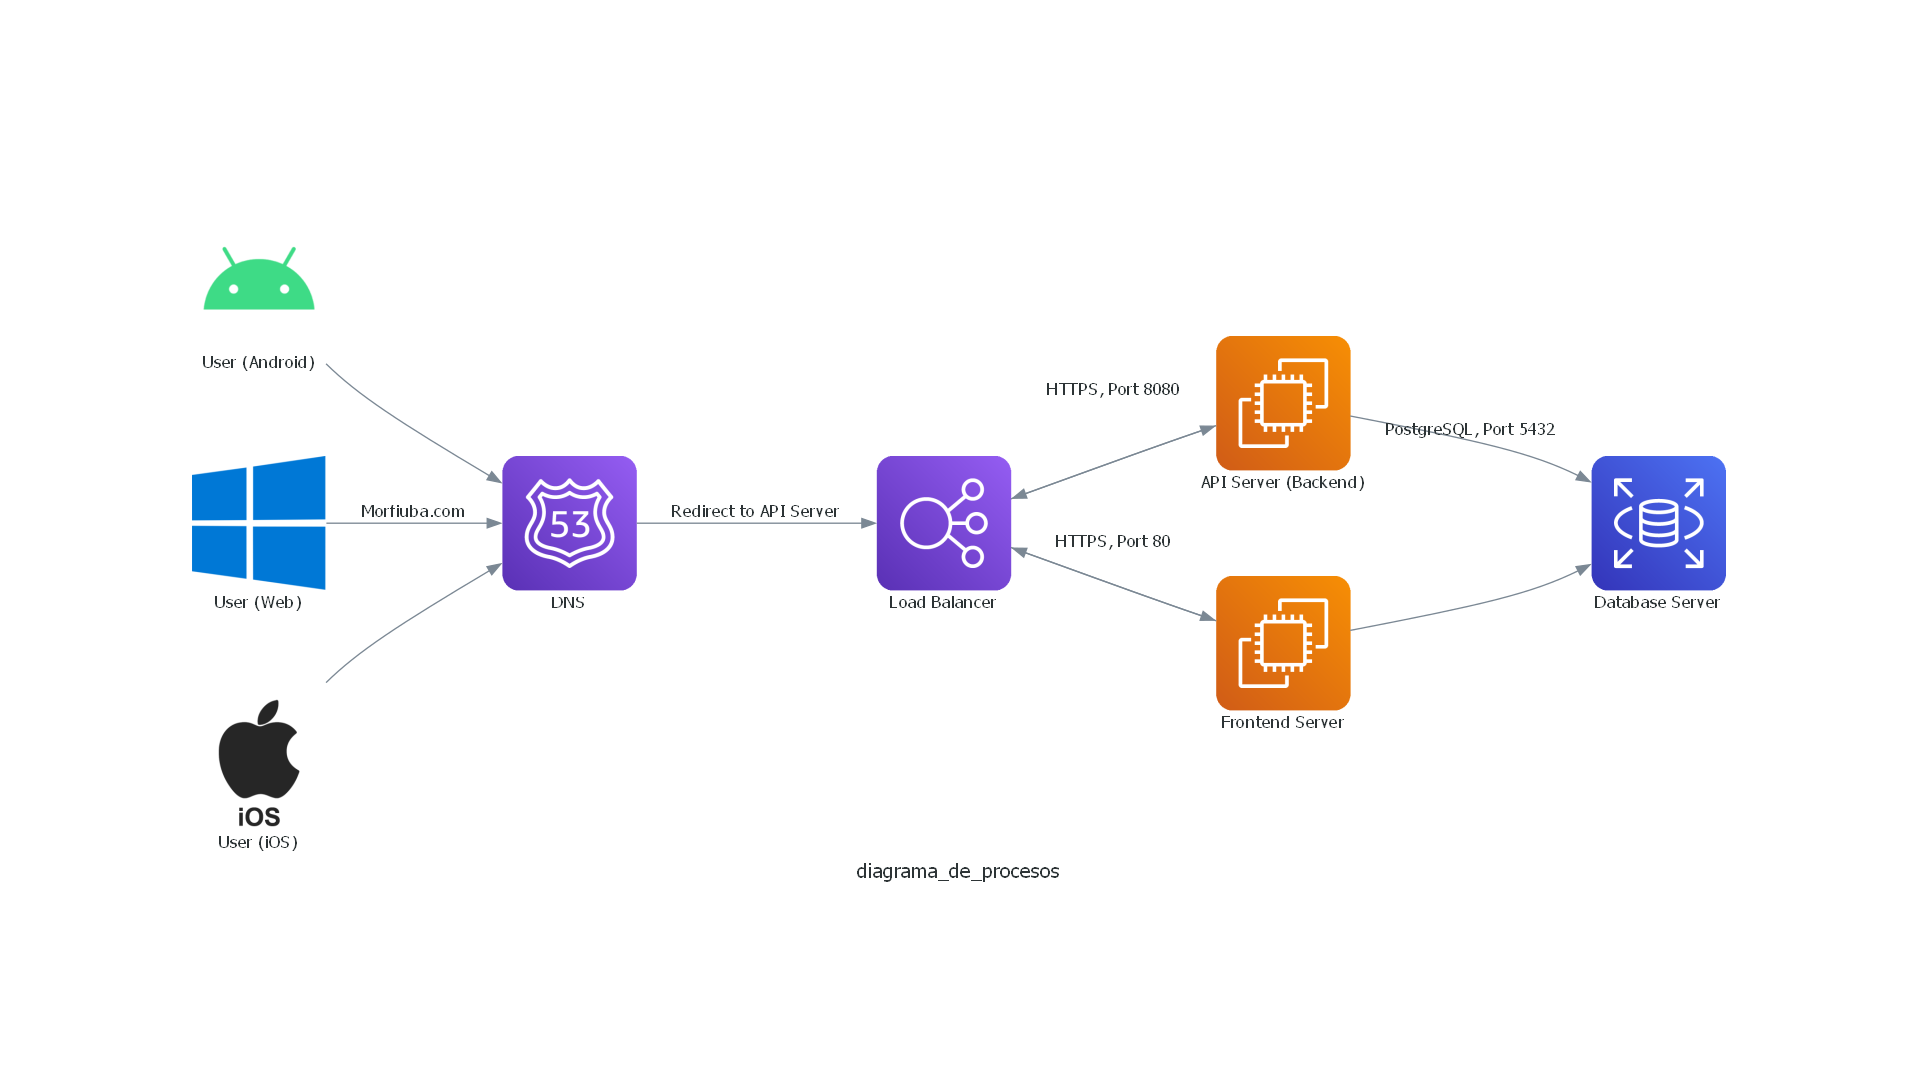
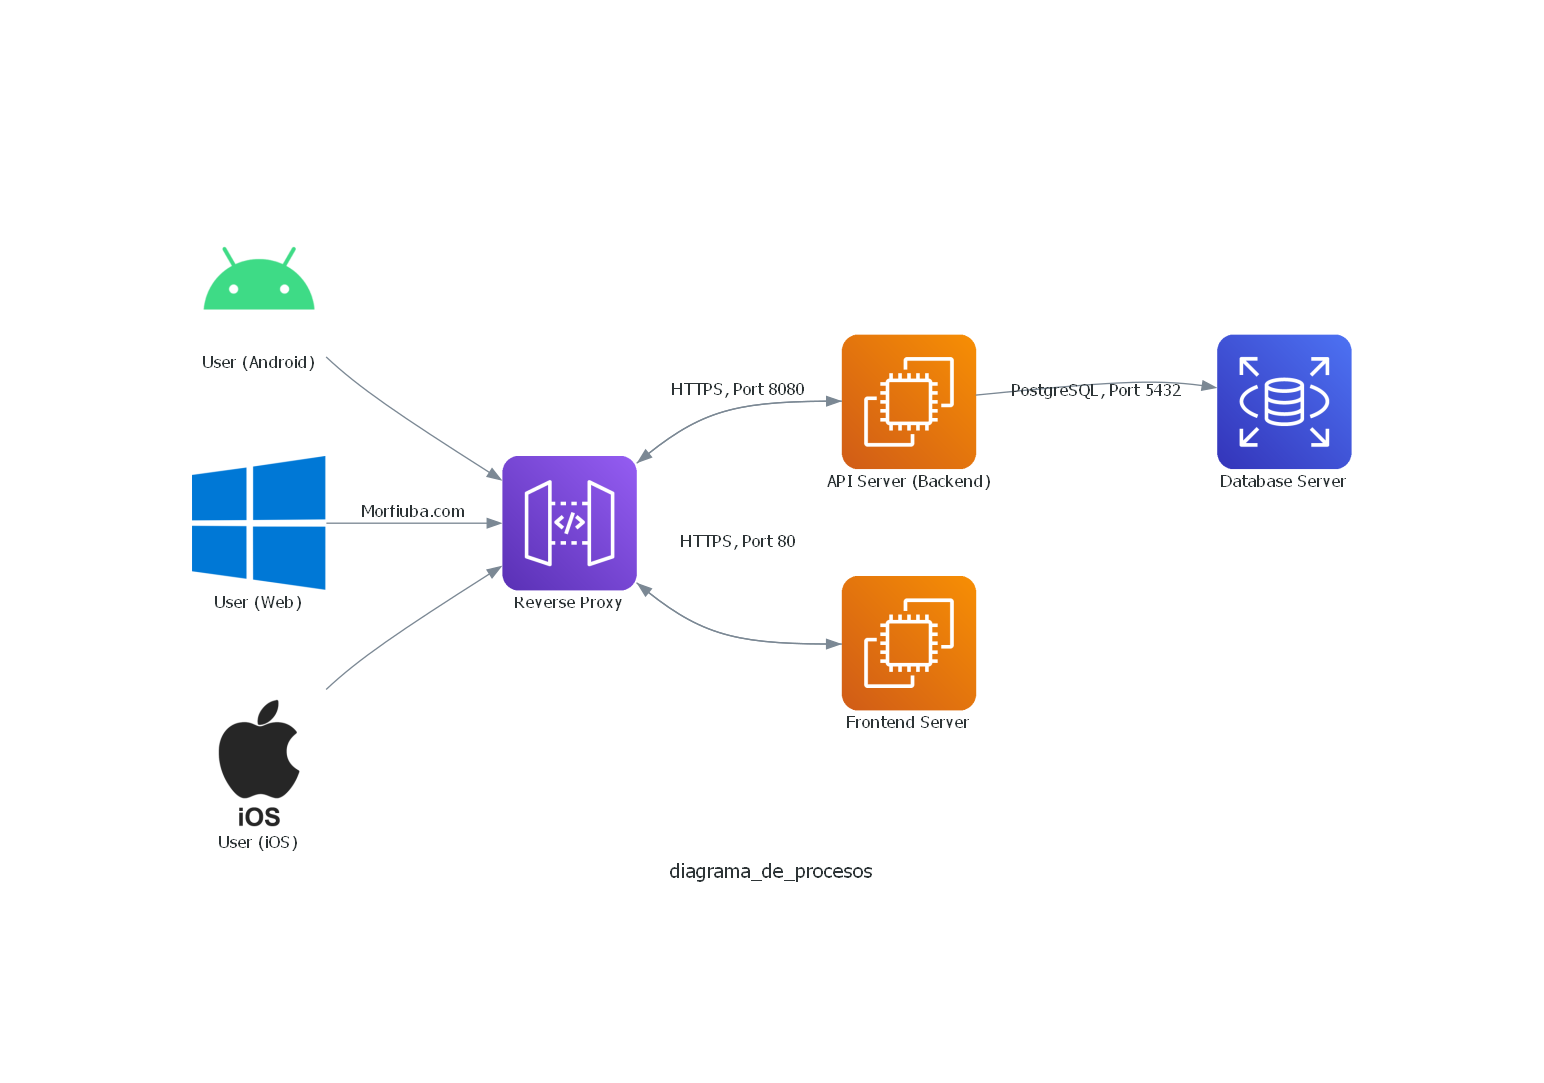
removed DNS

diff --git a/procesos.py b/procesos.py
@@ -4,14 +4,13 @@ from diagrams.aws.network import ELB
 from diagrams.aws.database import RDS
 from diagrams import Diagram, Cluster, Edge
 from diagrams.generic.os import Android, IOS, Windows
-from diagrams.aws.network import Route53
+from diagrams.aws.network import APIGateway
 
 
 with Diagram("diagrama_de_procesos", show=False, outformat='png', direction='LR', curvestyle="curved"):
     
     # Define the load balancer and backend servers
-    lb = ELB("Load Balancer")
-    dns = Route53("DNS")
+    lb = APIGateway("Reverse Proxy")
     api_server = EC2("API Server (Backend)")
     frontend_server = EC2("Frontend Server")
     
@@ -24,12 +23,9 @@ with Diagram("diagrama_de_procesos", show=False, outformat='png', direction='LR'
     ios_user_mgmt = IOS("User (iOS)")
 
     # Connect user management to backend servers
-    android_user_mgmt >> dns
-    web_user_mgmt >> Edge(label="Morfiuba.com") >> dns
-    ios_user_mgmt >> dns
-
-    # connect dns to load balancer
-    dns >> Edge(label="Redirect to API Server") >> lb
+    android_user_mgmt >> lb
+    web_user_mgmt >> Edge(label="Morfiuba.com") >> lb
+    ios_user_mgmt >> lb
 
     
     # Define ports for communication
@@ -40,4 +36,3 @@ with Diagram("diagrama_de_procesos", show=False, outformat='png', direction='LR'
     
     # Define ports for database connections
     api_server >> Edge(label="PostgreSQL, Port 5432") >> db_server
-    frontend_server >> db_server
